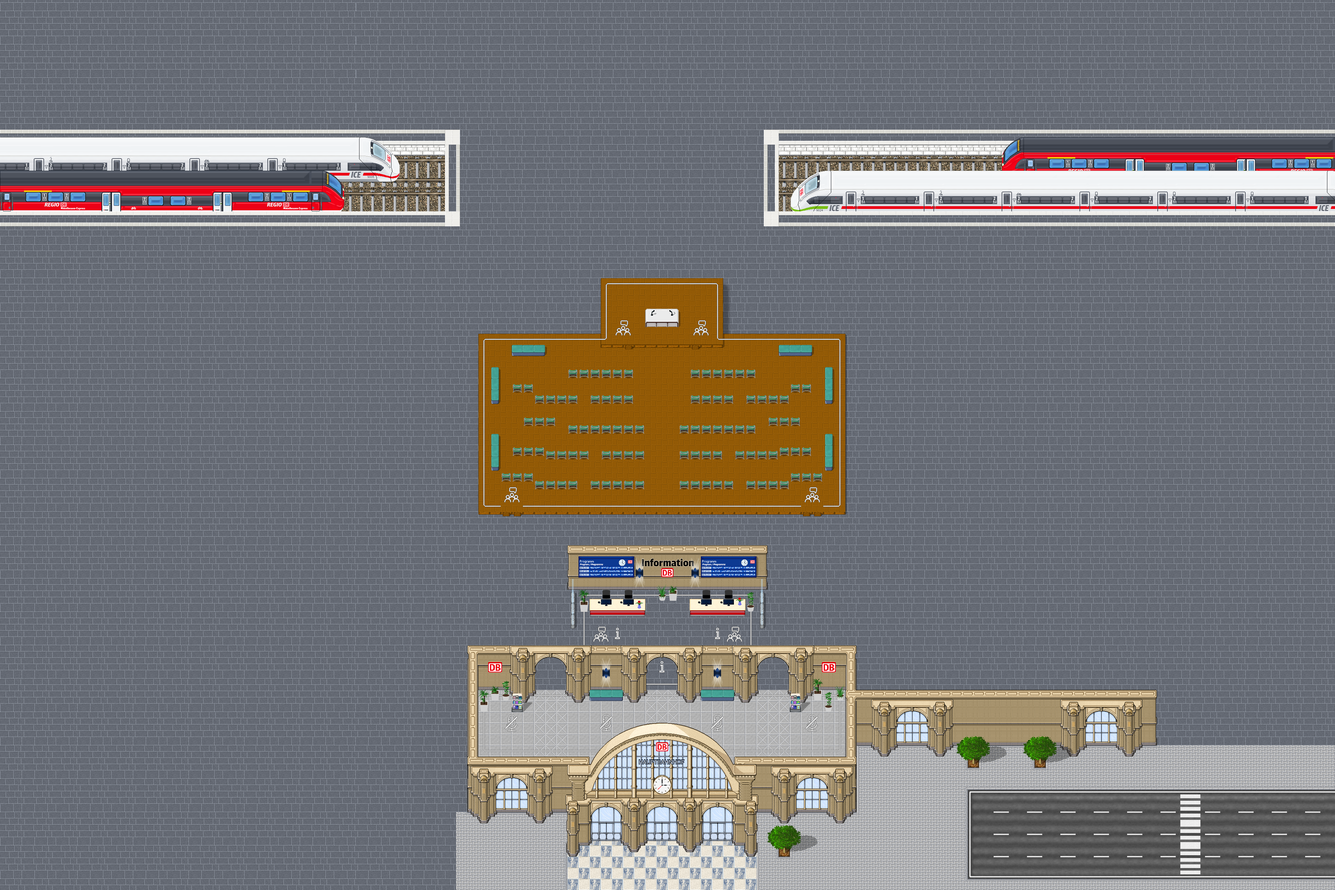
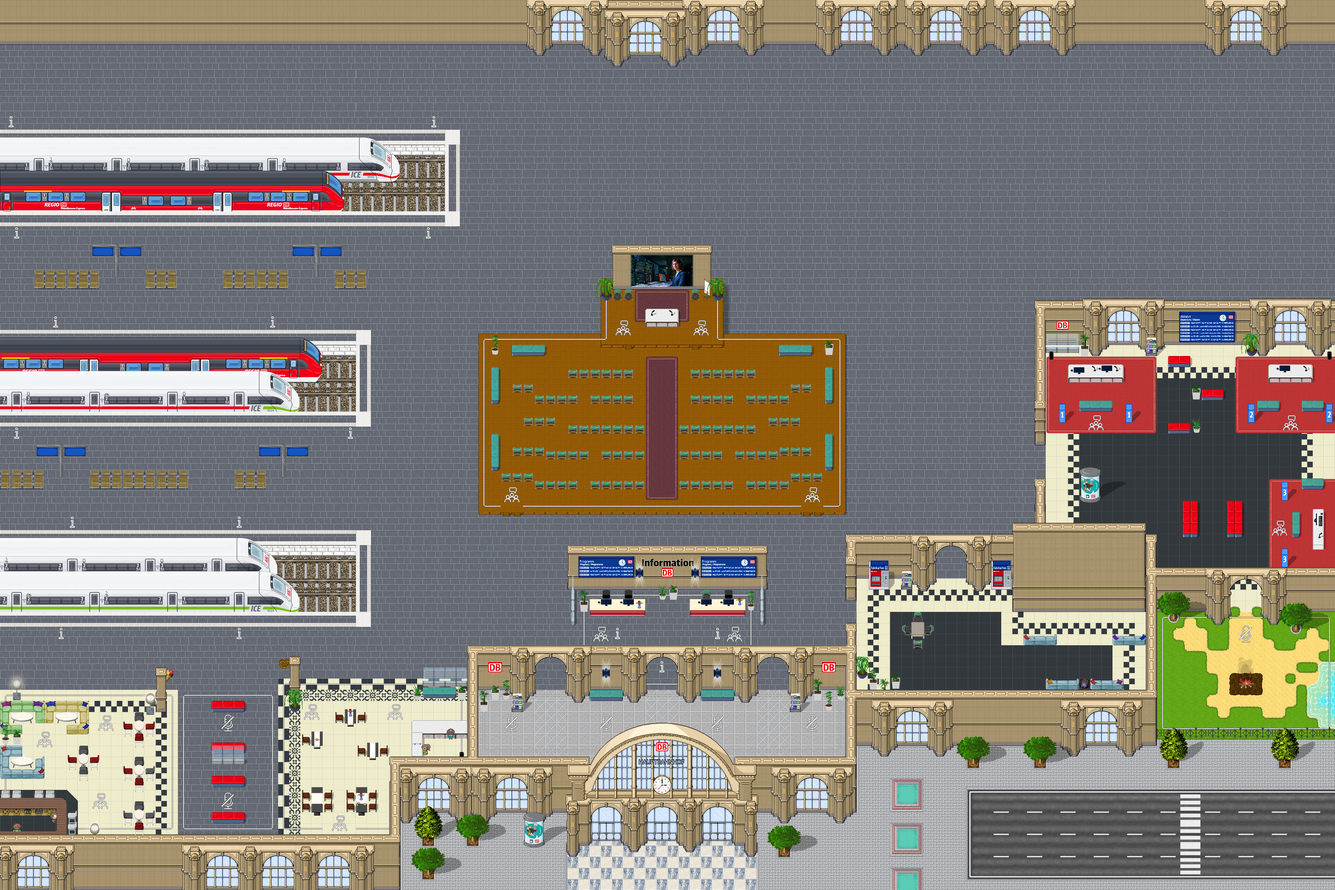
added worldmap and idle video

diff --git a/src/hm_station.js b/src/hm_station.js
@@ -27,13 +27,6 @@ var popUpMeetUs = "meetUs";
 var msgMeetUs = "Lerne uns persönlich kennen";
 var labelMeetUs = "Meet Us";
 var urlMeetUs= "https://db.jobs/service/search/de-de/9639412?qli=true&query=&itemsPerPage=10&pageNum=0&positiontype=Ausbildung&positiontype=Duales+Studium";
-		
-function closePopUp(){
-    if (currentPopup !== undefined) {
-        currentPopup.close();
-        currentPopup = undefined;
-    }
-}
 
 WA.room.onLeaveLayer(layerJobs1).subscribe(() => {
     closePopUp();

diff --git a/public/worldmap.html b/public/worldmap.html
@@ -1,0 +1,15 @@
+<!DOCTYPE html>
+<html>
+<head>
+<style>
+.responsive {
+  max-width: 100%;
+  height: auto;
+}
+</style>
+</head>
+<body>
+    <p>Willkommen bei den Zukunftswochen.</p>
+    <img src="../maps/hm_station.png" alt="Map" class="responsive">
+</body>
+</html>
